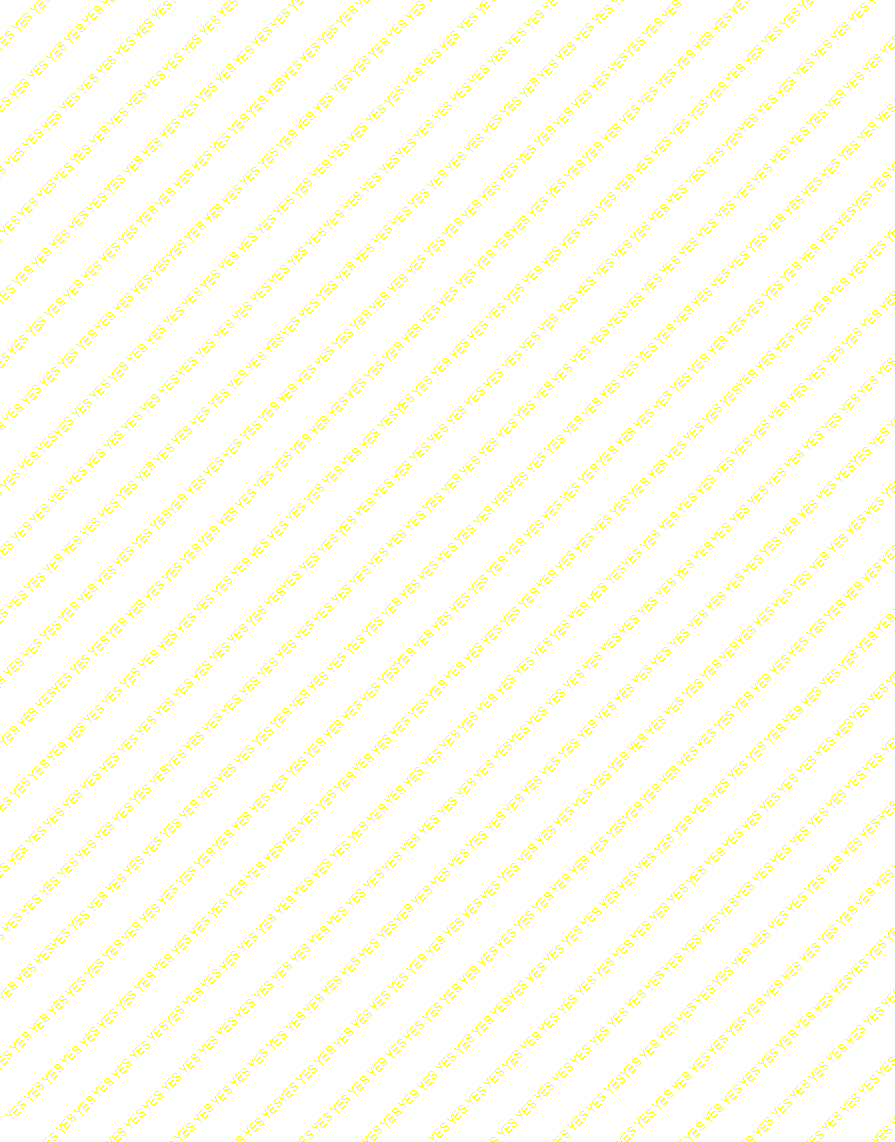
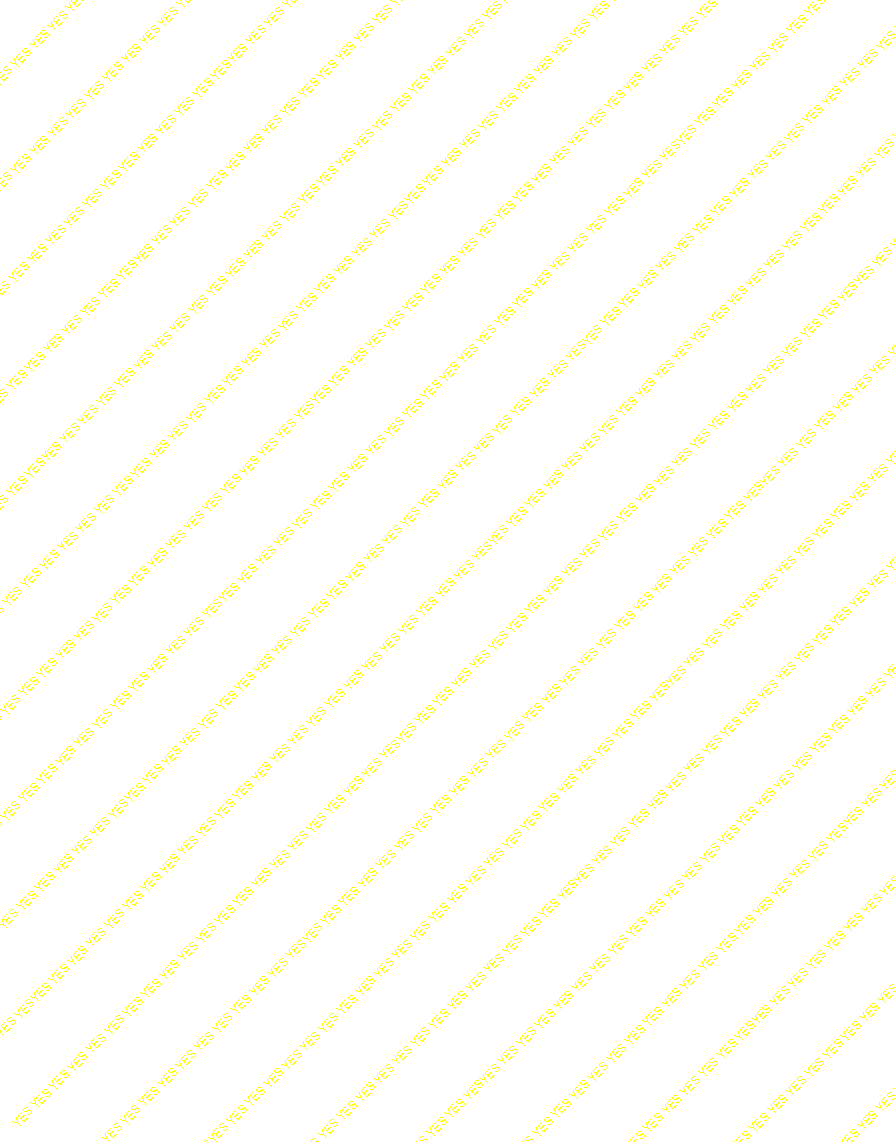
duplicata

diff --git a/src/main/resources/templates/visites.html b/src/main/resources/templates/visites.html
@@ -35,8 +35,7 @@
     </style>
 </head>
 <body>
-<!--div th:if="${v.statut > 6}" style="position: absolute; z-index: -1; "><img alt="duplicata" src="duplicata.png" style="height: 700px; width: 500px"/></div-->
-<div style="position: absolute; "><img alt="duplicata" src="duplicata.png" style="height: 700px; width: 500px"/></div>
+<div th:if="${v.statut > 6}" style="position: absolute; z-index: -1; "><img alt="duplicata" th:src="@{classpath:static/images/duplicata.png}" style="height: 980px; width: 750px"/></div>
 <div th:with="typeVehicule=${v.carteGrise.produit.categorieVehicule.type == 'VL'}">
 
     <table th:if="${!v.process.status}" style ="width: 100%; ">
@@ -630,16 +629,20 @@
 <div style="page-break-after: always;"></div>
 
 <div id="logo" class="media" data-src="watermark.png" style="opacity: 0.5; position: absolute; width: 750px; height: 865px"></div>
+
+
+
 <div align="center" style="height:100%">
     <table cellspacing="10" style="margin-top: 200px; margin-bottom: 300px">
         <tr>
             <td align="center" colspan="2">
-                <div style="z-index: 5">
-                    <h3> Véhicule immatriculé /
-                        Registered Vehicle : <span th:utext="${v.carteGrise.numImmatriculation}"></span>
-                    </h3>
+                <div style="position: absolute; left: 50%;">
+                    <div style="position: relative; left: -50%;">
+                        <h3 style="z-index: 10"> Véhicule immatriculé /
+                            Registered Vehicle : <span th:utext="${v.carteGrise.numImmatriculation}"></span>
+                        </h3>
+                    </div>
                 </div>
-
             </td>
         </tr>
         <tr>
